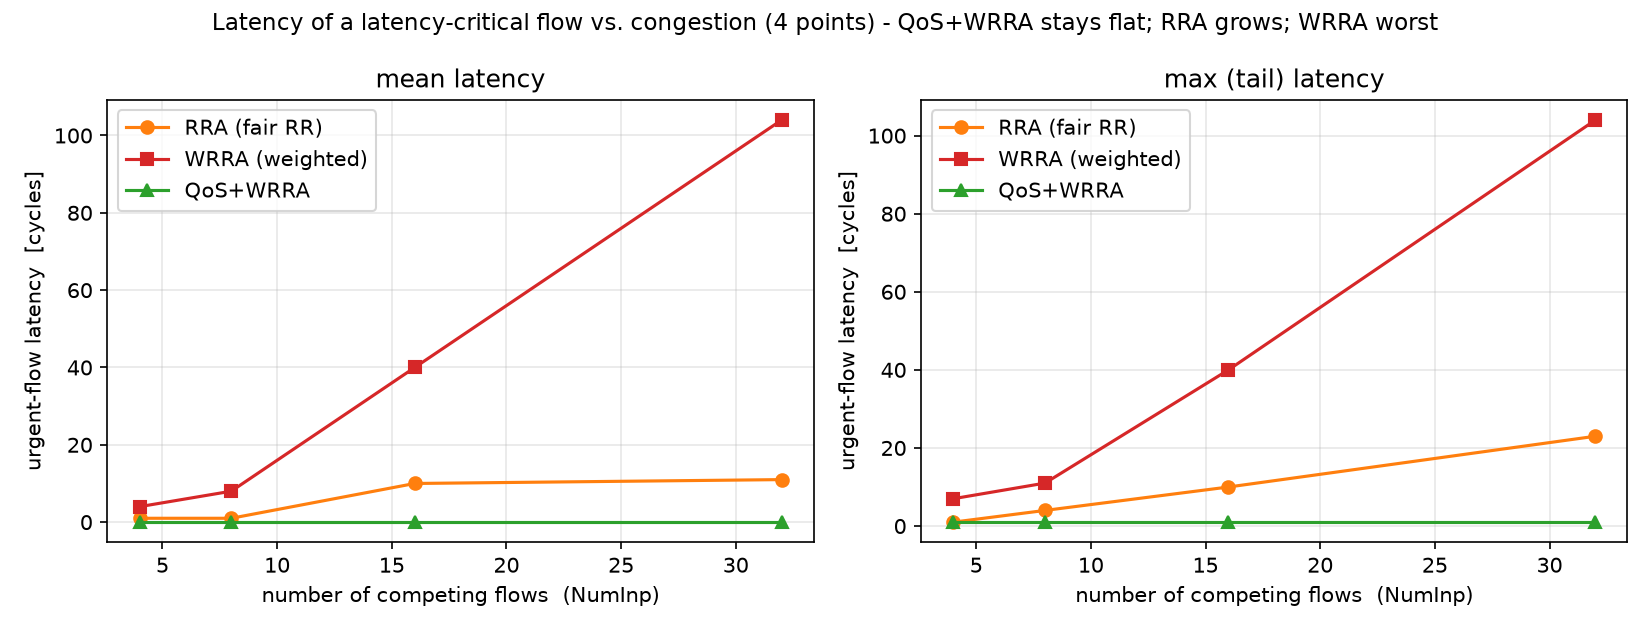
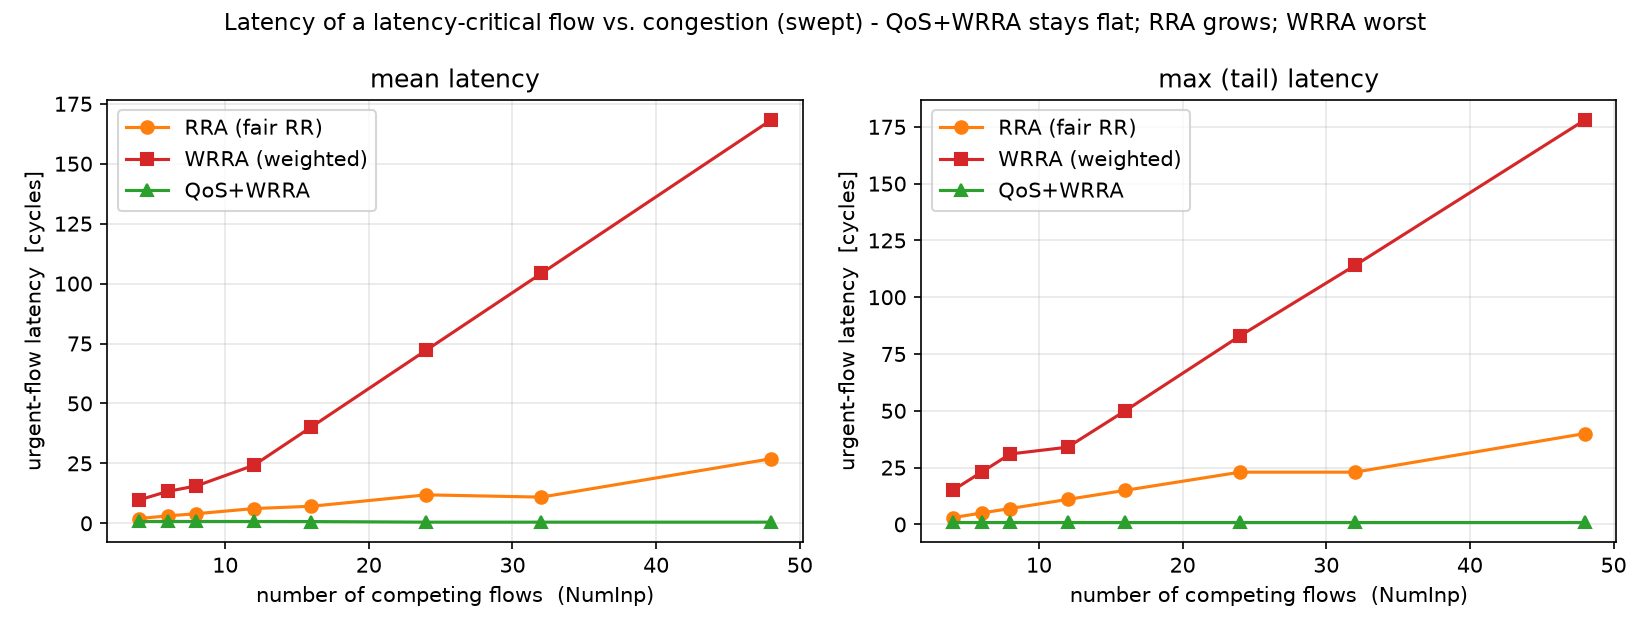
Final report figures from clean swept sim data
Regenerate all six figures from the full sweep results:
- fig1: latency vs congestion (jittered -> smooth RRA/WRRA curves, QoS flat)
- fig5: weight-proportionality cloud (3 patterns x 3 input counts, all on y=x)
- fig6: aging-tuning curve (low-tier share down / max-wait up vs AgingInterval)
Plot script dedups repeated AgingInterval points.

diff --git a/doc/plots/plot_arbiters.py b/doc/plots/plot_arbiters.py
@@ -172,7 +172,8 @@ else:
 # =====================================================================================
 # Fig 6 - Aging-tuning curve  (CSV: aging)  low-tier share & max-wait vs AgingInterval
 # =====================================================================================
-ag = sorted(DATA.get("aging", []), key=lambda r: r["interval"])
+ag = sorted({r["interval"]: r for r in DATA.get("aging", [])}.values(),
+            key=lambda r: r["interval"])  # dedup repeated intervals (nominal + swept)
 if ag:
     iv   = [r["interval"]    for r in ag]
     losh = [r["lo_share"]    for r in ag]
